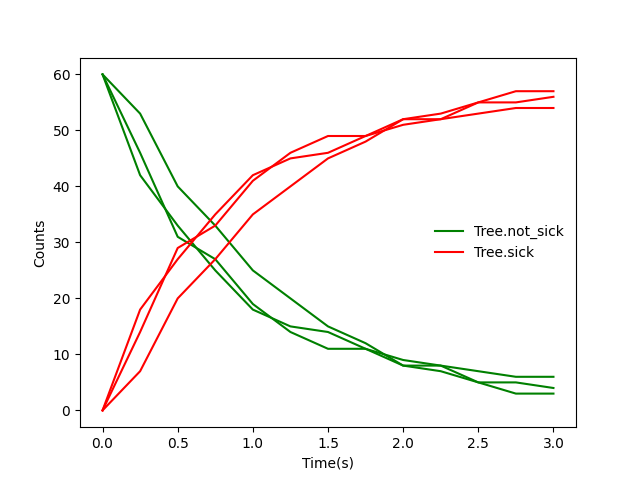
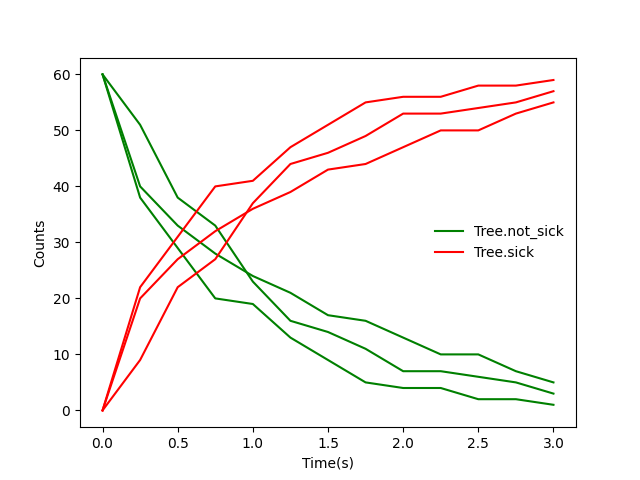
Added test for characteristic extraction in rate function. Updated example models according to current Syntax

Changed region(s): [[0.1562, 0.1562, 0.875, 0.8438], [0.5312, 0.2188, 0.5625, 0.25]]

diff --git a/mobspy/modules/meta_class.py b/mobspy/modules/meta_class.py
@@ -653,7 +653,7 @@ class Reacting_Species(ReactingSpeciesComparator):
 
             :param quantity: (int, float, Quantity) count to be assigned to the species
         """
-        #If called within a Any context, add the characteristics of the Any context to the reacting specie called 
+        # If called within a Any context, add the characteristics of the Any context to the reacting specie called
         if len(Species.meta_specie_named_any_context) > 0 : 
             for i in Species.meta_specie_named_any_context:
                 self = self.c(i)
@@ -667,13 +667,13 @@ class Reacting_Species(ReactingSpeciesComparator):
             if len(self.list_of_reactants) != 1:
                 simlog.error('Assignment used incorrectly. Only one species at a time', stack_index=2)
             quantity_dict = species_object.add_quantities(characteristics, quantity)
-        elif isinstance(quantity, ExpressionDefiner) and not isinstance(quantity, Mobspy_Parameter):
-            simlog.error('Operations are not allowed for count assignment. Only individual parameters')
+        # elif isinstance(quantity, ExpressionDefiner) and not isinstance(quantity, Mobspy_Parameter):
+        #    simlog.error('Operations are not allowed for count assignment. Only individual parameters', stack_index=2)
         elif simulation_under_context is None:
             simlog.error(f'Reactant_Species count assignment does not support the type {type(quantity)}',
                          stack_index=2)
             
-        #If called within an event context, make sure that the call is a count assignment only
+        # If called within an event context, make sure that the call is a count assignment only
         if simulation_under_context is not None:
             try:
                 if type(quantity) == str:
@@ -1154,8 +1154,9 @@ class Species(SpeciesComparator):
 
             :return self: to allow for assigning counts mid-reaction
         """
-        #If called within a Any context, add the characteristics of the Any context to the specie called. The specie becomes a reacting specie.
-        if len(Species.meta_specie_named_any_context) != 0 :
+        # If called within a Any context, add the characteristics of the Any context to the specie called.
+        # The specie becomes a reacting specie.
+        if len(Species.meta_specie_named_any_context) != 0:
             for i in Species.meta_specie_named_any_context:
                 self.c(i)
             quantity_dict = self.add_quantities(Species.meta_specie_named_any_context.copy(), quantity)
@@ -1164,8 +1165,8 @@ class Species(SpeciesComparator):
         elif type(quantity) == int or type(quantity) == float or isinstance(quantity, Quantity) \
                 or isinstance(quantity, Mobspy_Parameter):
             quantity_dict = self.add_quantities('std$', quantity)
-        elif isinstance(quantity, ExpressionDefiner) and not isinstance(quantity, Mobspy_Parameter):
-            simlog.error('Operations are not allowed for count assignment. Only individual parameters')
+        # elif isinstance(quantity, ExpressionDefiner) and not isinstance(quantity, Mobspy_Parameter):
+        #    simlog.error('Operations are not allowed for count assignment. Only individual parameters', stack_index=2)
         elif isinstance(quantity, frc.Specific_Species_Operator):
             for cha in str(quantity).split('_dot_')[1:]:
                 if cha in self._characteristics:
@@ -1175,11 +1176,12 @@ class Species(SpeciesComparator):
             simlog.error(f'Assignments of counts using meta-species are only allowed under events in '
                          f'simulation context', stack_index=2)
         elif Species.get_simulation_context() is None:
+            print(quantity, type(quantity))
             simlog.error(f'Reactant_Species count assignment does not support the type {type(quantity)}'
                          f' if not under a simulation context',
                          stack_index=2)
 
-        #If called within an event context, make sure that the call is a count assignment only
+        # If called within an event context, make sure that the call is a count assignment only
         if self.get_simulation_context() is not None:
             sim_under_context = self.get_simulation_context()
 

diff --git a/example_models/application_models/random_walk.py b/example_models/application_models/random_walk.py
@@ -16,7 +16,7 @@ import time
 start_time = time.time()
 
 Mesh = BaseSpecies(1)
-n = 10
+n = 5
 for i in range(n):
     for j in range(n):
         coordinate = 'p_' + str(i) + '_' + str(j)
@@ -47,12 +47,12 @@ MySim.run()
 
 
 def grab_position(species_position, list_x, list_y):
-    _, x, y = Mesh(species_position).split('_')
+    _, x, y = species_position.split('_')
     list_x.append(int(x))
     list_y.append(int(y))
 
 
-data = MySim.results['data']
+data = MySim.fres
 
 Bacteria_x = []
 Bacteria_y = []
@@ -66,27 +66,30 @@ for t in range(len(data['Time'])):
     position_flag_phage = False
 
     for key in data:
+
         if key == 'Time' or key == 'Bacteria' or key == 'Phage':
             continue
         species_string = deepcopy(key)
 
-        if data[key]['runs'][0][t] == 1:
+        if data[key][t] == 1:
 
-            if species_string.split('.')[0] == 'Bacteria':
-                if Bacteria(key) == 'infected':
-                    grab_position(key, Meeting_x, Meeting_y)
+            split_key = species_string.split('.')
+
+            if split_key[0] == 'Bacteria':
+                if split_key[1] == 'infected':
+                    grab_position(split_key[-1], Meeting_x, Meeting_y)
                     break_flag = True
                     break
 
                 if not position_flag_bacteria:
-                    grab_position(key, Bacteria_x, Bacteria_y)
+                    grab_position(split_key[-1], Bacteria_x, Bacteria_y)
                     position_flag_bacteria = True
                 else:
                     raise TypeError('Something went wrong')
 
-            if species_string.split('.')[0] == 'Phage':
+            if split_key[0] == 'Phage':
                 if not position_flag_phage:
-                    grab_position(key, Phage_x, Phage_y)
+                    grab_position(split_key[-1], Phage_x, Phage_y)
                     position_flag_phage = True
                 else:
                     raise TypeError('Something went wrong')

diff --git a/test_script.py b/test_script.py
@@ -1222,7 +1222,20 @@ def test_with_statement_on_any_and_event():
         
     assert compare_model(S.compile(), 'test_tools/model_42.txt')
 
-    
+
+def test_matching_characteristic_rate():
+
+    A = BaseSpecies()
+    B, C = New(A)
+
+    A.a1, A.a2, A.a3
+
+    B + C >> Zero[lambda r1, r2: 100 if A(r1) == A(r2) else 0]
+
+    S = Simulation(B | C)
+    S.level = -1
+    assert compare_model(S.compile(), 'test_tools/model_43.txt')
+
 
 
 # This is here because pytest is slow - but this script works fine with pytest. Just make sure that the
@@ -1242,7 +1255,8 @@ test_list = [test_model_1, test_model_2, test_model_3, test_model_4, test_model_
              test_wrong_dimension_error, test_more_than_used, zero_rate_test, test_wrong_rate,
              test_conversion_outside, test_first_characteristic_in_reacting_species, test_model_reference,
              test_sbml_generation, test_multi_sim_sbml, test_inline_comment,
-             test_with_statement_any_and_species_characteristics, test_with_statement_on_any_and_event]
+             test_with_statement_any_and_species_characteristics, test_with_statement_on_any_and_event,
+             test_matching_characteristic_rate]
 
 sub_test = test_list
 

diff --git a/for_local_use.py b/for_local_use.py
@@ -1,38 +1,17 @@
 from mobspy import *
+import numpy as np
 
 if __name__ == '__main__':
 
-    Age, Color, Mortal = BaseSpecies(3)
-    Age.young, Age.old
-    Color.red, Color.green, Color.blue
+    A = BaseSpecies()
+    B, C = New(A)
 
-    Mortal >> Zero [1]
+    A.a1, A.a2, A.a3
 
-    A,B,C = New(Age*Color*Mortal, 3)
+    B + C >> Zero [lambda r1, r2: 100 if A(r1) == A(r2) else 0]
 
-    with Any.old.red :
-        A >> B [1]
-        B >> C [1]
-        C >> A [1]
+    S = Simulation(B | C)
+    print(S.compile())
 
-    with Any.young.green :
-        A(10)
-        B(10)
-        C(10)
 
-    S = Simulation(A | B |C)
 
-    S.method = 'deterministic'
-    S.duration = 15
-    S.output_event = True
-
-    with Any.old, S.event_condition(A <= 1) :
-        with Color.red :
-            A(20)
-            C(5)
-
-        with Any.green :
-            A(10)
-            C(10)
-
-    S.run()

diff --git a/example_models/application_models/For_The_Trees.py b/example_models/application_models/For_The_Trees.py
@@ -20,8 +20,7 @@ if __name__ == '__main__':
     Tree.old >> Tree + Tree.green.young[0.1/u.year]
 
     # competition
-    Tree.dense.old + Tree.dense.young >> Tree.dense.old \
-        [1e-10 * u.decimeter / u.year]
+    Tree.dense.old + Tree.dense.young >> Tree.dense.old [1e-10 * u.decimeter**2 / u.year]
 
     # color cycling
     colors = ['green', 'yellow', 'brown']
@@ -31,12 +30,11 @@ if __name__ == '__main__':
     # initial conditions
     Tree.dense(50), Tree.dense.old(50), Tree.sparse(50), Tree.sparse.old(50)
     MySim = Simulation(Tree)
-    print(MySim.compile())
-    exit()
     MySim.simulation_method = 'stochastic'
     MySim.save_data = False
     MySim.plot_data = False
     MySim.duration = 100*u.years
     MySim.unit_x = 'year'
+    MySim.volume = 1*u.meter**2
     MySim.run()
     MySim.plot_stochastic(Tree.dense, Tree.sparse, Tree.brown)

diff --git a/example_models/application_models/AND_gate.py b/example_models/application_models/AND_gate.py
@@ -26,7 +26,7 @@ def AND_GATE(A_conc, B_conc):
     MySim.save_data = False
     MySim.plot_data = False
     MySim.run()
-    return MySim.results['data']['Protein']['runs'][0][-1]
+    return MySim.results[Protein][0][-1]
 
 
 # Here is a simple heatmap definition to show to get working

diff --git a/example_models/application_models/NOR_gate.py b/example_models/application_models/NOR_gate.py
@@ -25,7 +25,7 @@ def NOR_GATE(A_conc, B_conc):
     MySim.save_data = False
     MySim.plot_data = False
     MySim.run()
-    return MySim.results['data']['Protein']['runs'][0][-1]
+    return MySim.fres['Protein'][-1]
 
 
 heatmap = []
